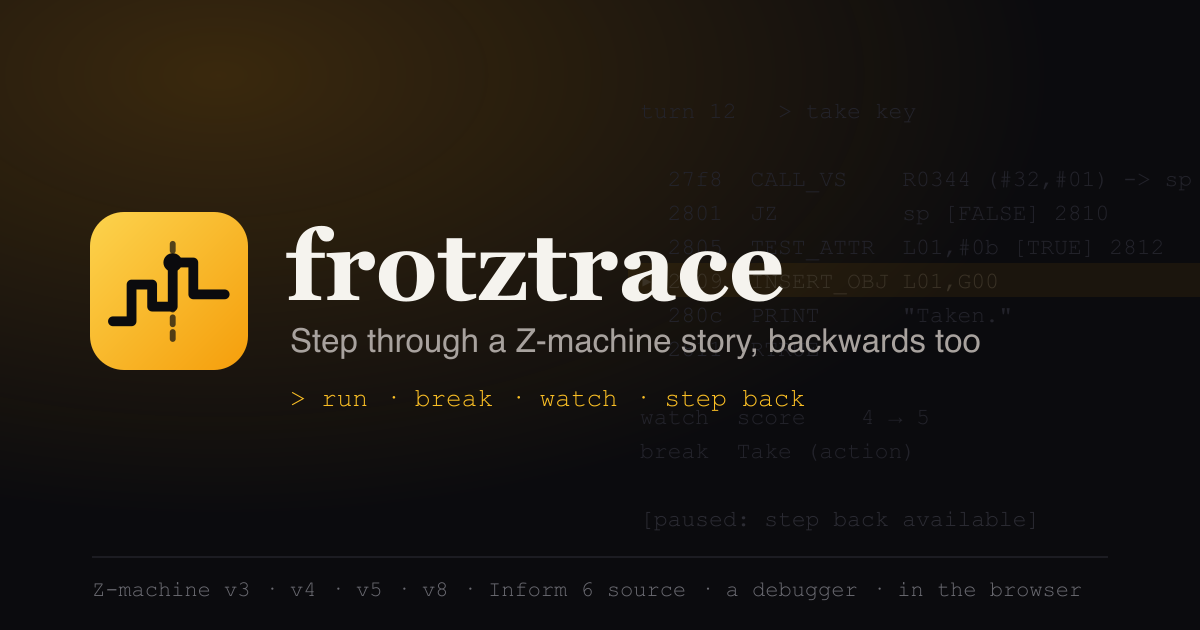
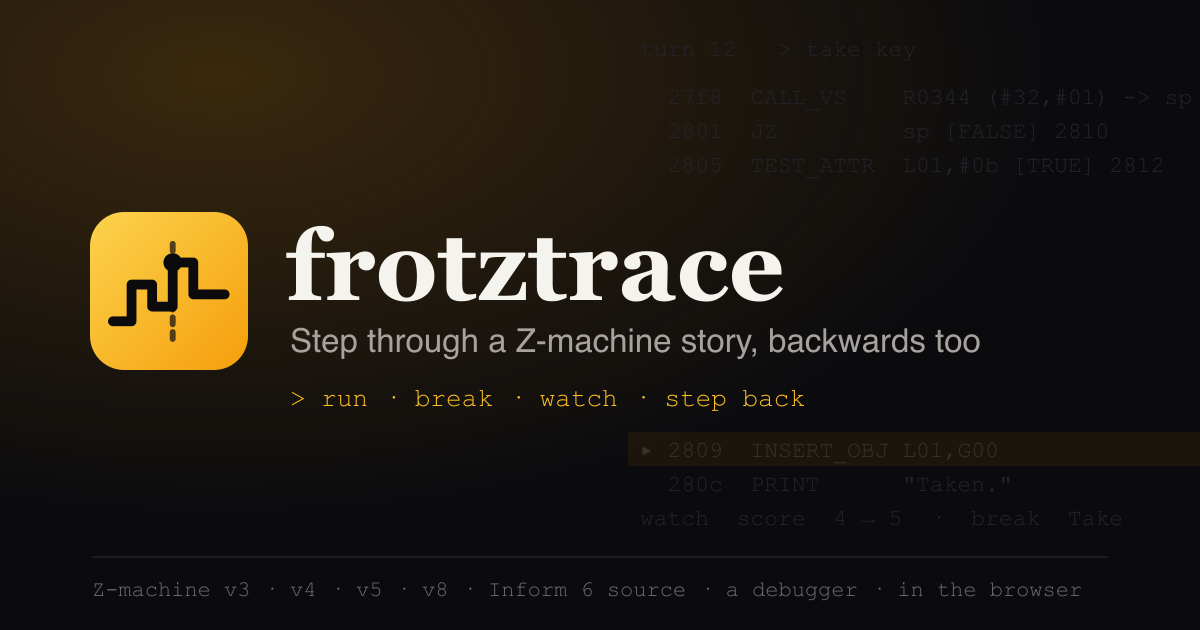
frotztrace in the README, with its social card; the card's texture clear of the name (0.3.9)

diff --git a/README.md b/README.md
@@ -7,7 +7,7 @@
 [![Netlify Status](https://api.netlify.com/api/v1/badges/ff4e0b7c-4eed-4fb8-8d7e-25dd7e1f8e69/deploy-status)](https://app.netlify.com/projects/frotzlens/deploys)
 [![TypeScript](https://img.shields.io/badge/TypeScript-strict-3178C6.svg)](https://www.typescriptlang.org)
 [![Z-machine](https://img.shields.io/badge/Z--machine-v3%20%C2%B7%20v4%20%C2%B7%20v5%20%C2%B7%20v8-f59e0b.svg)](https://inform-fiction.org/zmachine/standards/)
-[![Status](https://img.shields.io/badge/status-v0.3.8-brightgreen.svg)](./CHANGELOG.md)
+[![Status](https://img.shields.io/badge/status-v0.3.9-brightgreen.svg)](./CHANGELOG.md)
 
 **This repository holds two apps, a third in development, and the libraries they share:**
 
@@ -15,9 +15,9 @@
 |---|---|---|
 | **frotzlens** | Look inside a Z-machine story file: disassembly, objects, grammar, the map, and Inform 6 source. | [frotzlens.frotzinc.com](https://frotzlens.frotzinc.com) |
 | **[frotzplay](#frotzplay)** | Play a Z-machine story: an accessible player that embeds under a strict CSP and exports to a single HTML file or a folder. | [frotzplay.frotzinc.com](https://frotzplay.frotzinc.com) |
-| **[frotztrace](docs/frotztrace-design.md)** *(in development)* | Debug a Z-machine story: run it under observation, set breakpoints, watch the objects and globals change, and step backwards. Built on frotzplay's interpreter. | frotztrace.frotzinc.com (not yet live) |
+| **[frotztrace](#frotztrace)** *(in development)* | Debug a Z-machine story: run it under observation, set breakpoints, watch the objects and globals change, and step backwards. Built on frotzplay's interpreter. | frotztrace.frotzinc.com (not yet live) |
 
-frotzlens lives in [`apps/web`](apps/web) and frotzplay in [`apps/play`](apps/play). The libraries in [`packages/`](packages) are published to npm under `@frotzinc/`, and the `frotzlens` command-line tool is in [`packages/cli`](packages/cli). The rest of this page is frotzlens first, then [frotzplay](#frotzplay).
+frotzlens lives in [`apps/web`](apps/web), frotzplay in [`apps/play`](apps/play), and frotztrace in [`apps/trace`](apps/trace). The libraries in [`packages/`](packages) are published to npm under `@frotzinc/`, and the `frotzlens` command-line tool is in [`packages/cli`](packages/cli). The rest of this page is frotzlens first, then [frotzplay](#frotzplay) and [frotztrace](#frotztrace).
 
 frotzlens is a browser-based disassembler and inspector for Z-machine story files. Drop a `.z3`, `.z4`, `.z5`, `.z8` or `.zblorb` into a tab and see what's inside: the header, the memory map, the object tree, the dictionary and grammar, every routine as cross-referenced disassembly, and every string. Everything runs in your browser; nothing is uploaded.
 
@@ -46,6 +46,12 @@ Then **play it**, in Parchment, walled off in a sandbox ([details](docs/07-play.
 | ![frotzplay's start page: the drop zone and four sample stories](docs/screenshots/frotzplay/start.png) **The start page.** Drop a story, choose a file, or try a sample. | ![The Dark Cellar playing on frotzplay, on its own warm dark page](docs/screenshots/frotzplay/site-playing.png) **Playing.** The story on its own page, dark by default, every piece of text at 7:1 contrast or better. |
 | ![The player's Settings: theme, font, text size and spacing, what the screen reader says, motion and timers](docs/screenshots/frotzplay/settings.png) **Settings.** Three themes, OpenDyslexic, text size and spacing, screen-reader verbosity, the story's timers off. | ![An exported story: frotzplay's header, the player, and links to frotzplay, GitHub and frotz, Inc.](docs/screenshots/frotzplay/export.png) **Export.** One HTML file that plays from a double-click, or a folder for any web host. |
 | ![The same story on parchment, the light theme](docs/screenshots/frotzplay/play-light.png) **Light: parchment.** | ![The upper window shown as text, with a status row and a map](docs/screenshots/frotzplay/upper-window.png) **The upper window as text**, read aloud on demand. |
+
+## frotztrace
+
+[![frotztrace — step through a Z-machine story, backwards too](apps/trace/public/og-image.png)](https://frotztrace.frotzinc.com)
+
+**[frotztrace](apps/trace)** is the family's debugger, being built in this repository: open a story file (and, if you have them, its `gameinfo.dbg` and Inform 6 source), press Run, and the game plays while everything frotzlens shows (objects, globals, memory, routines) is live, with what just changed lit. Breakpoints on routines, actions, printed text and property changes; watches; a call stack with named locals; and **step backwards**, because every run is deterministic and can be replayed. It's built on frotzplay's interpreter, [`@frotzinc/zmachine`](packages/zmachine), and frotzlens's views, [`@frotzinc/zcode-ui`](packages/zcode-ui). [The design](docs/frotztrace-design.md) has the plan and the phases; the site at frotztrace.frotzinc.com says what's coming until the debugger is ready.
 
 ## Who it's for
 

diff --git a/CHANGELOG.md b/CHANGELOG.md
@@ -2,6 +2,14 @@
 
 All notable changes to frotzlens: the web app at [frotzlens.frotzinc.com](https://frotzlens.frotzinc.com), and this repository. The packages keep their own changelogs: [`@frotzinc/zcode`](packages/zcode/CHANGELOG.md), [`@frotzinc/zcode-ui`](packages/zcode-ui/CHANGELOG.md), [`frotzlens`](packages/cli/CHANGELOG.md) (the CLI), [`@frotzinc/worker-rpc`](packages/worker-rpc/CHANGELOG.md), [`@frotzinc/nuxt-base`](packages/nuxt-base/CHANGELOG.md), [`@frotzinc/inform6-wasm`](packages/inform6-wasm/CHANGELOG.md). Versions follow [Semantic Versioning](https://semver.org/). Part of [frotz, Inc.](https://frotzinc.com).
 
+## [0.3.9] - 2026-11-08
+
+### Added
+- **frotztrace in the README:** its own section, after frotzplay's, with its social card linked to frotztrace.frotzinc.com, so it's clear frotztrace lives in this repository.
+
+### Changed
+- frotztrace's social card keeps its faded disassembly above and below the wordmark, as frotzplay's does, so the program counter's highlight no longer runs behind the name. Re-rendered.
+
 ## [0.3.8] - 2026-11-08
 
 ### Added

diff --git a/apps/trace/CHANGELOG.md b/apps/trace/CHANGELOG.md
@@ -2,6 +2,11 @@
 
 All notable changes to frotztrace, the site at [frotztrace.frotzinc.com](https://frotztrace.frotzinc.com). Versions follow [Semantic Versioning](https://semver.org/). Part of [frotz, Inc.](https://frotzinc.com).
 
+## [0.0.4] - 2026-11-08
+
+### Changed
+- The social card's faded disassembly sits above and below the wordmark, as frotzplay's does.
+
 ## [0.0.3] - 2026-11-08
 
 ### Fixed
